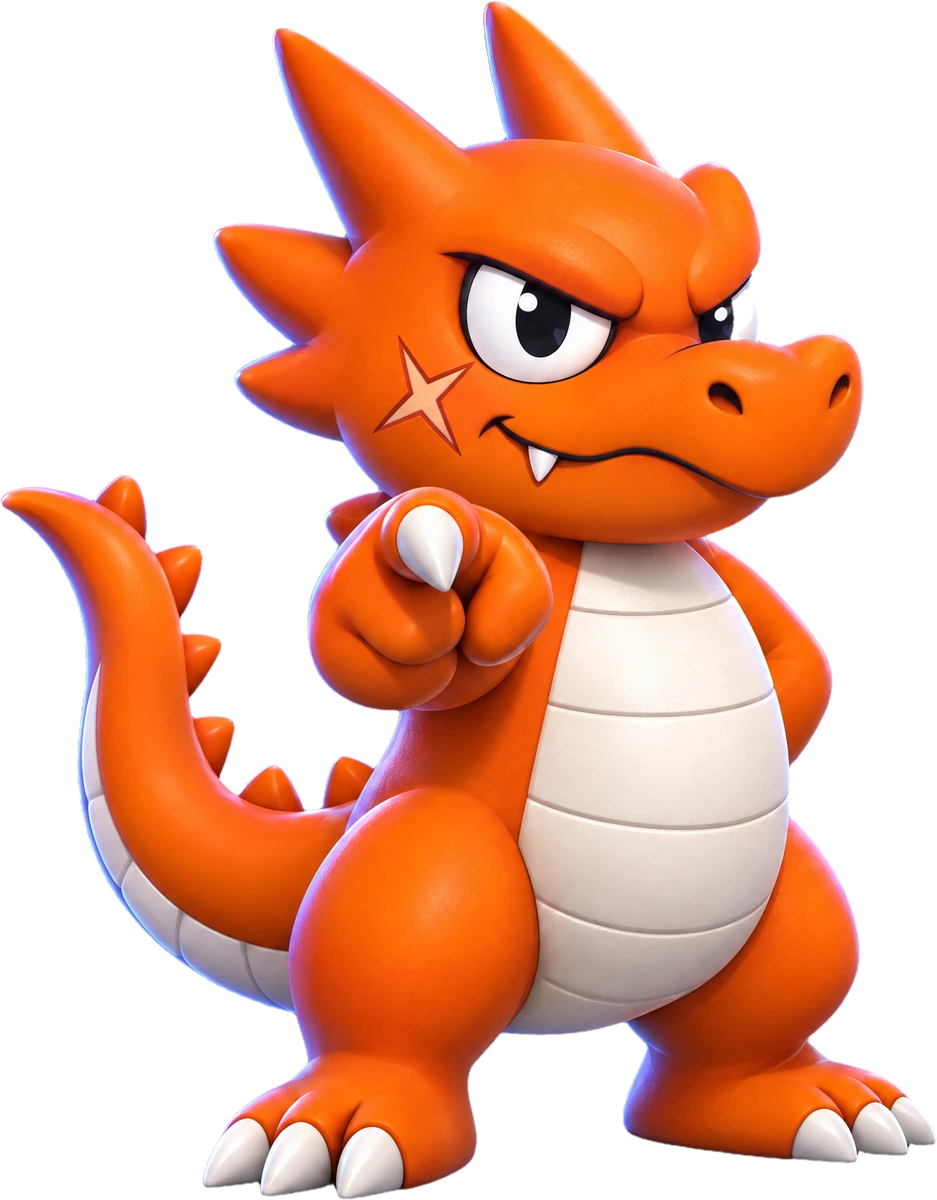
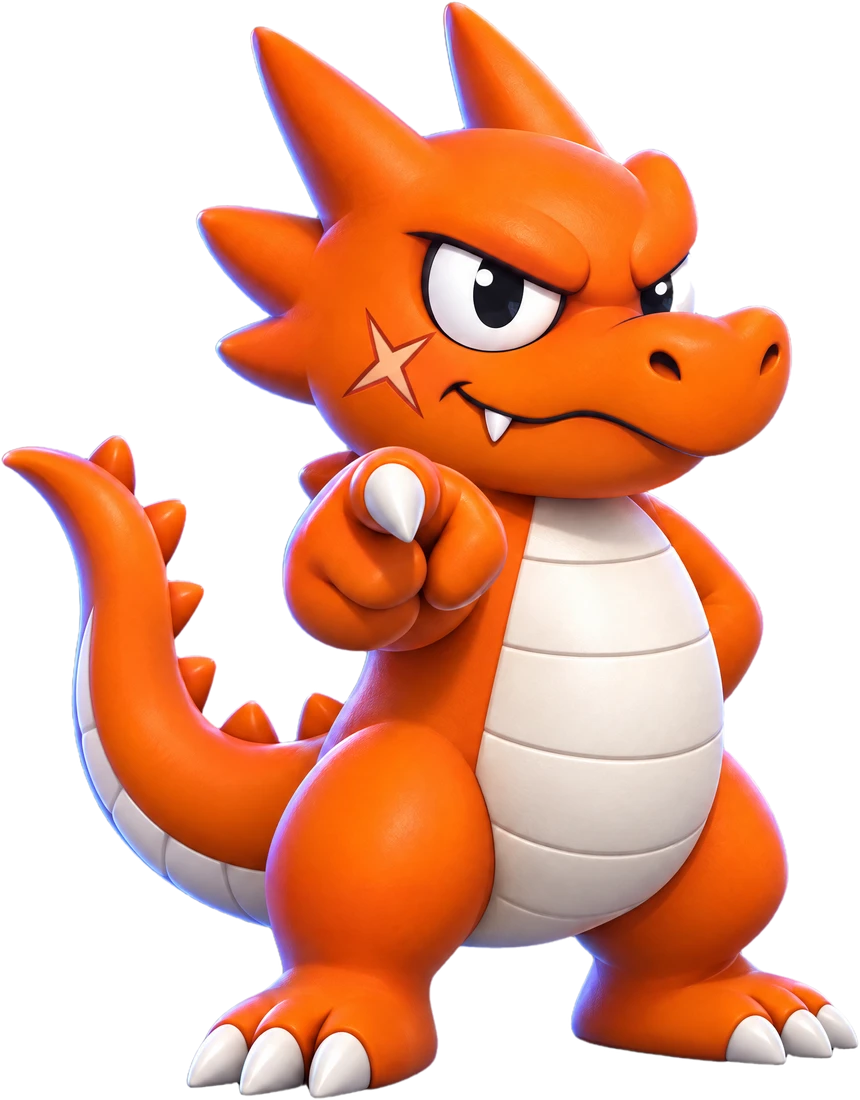
Troca o Draco 3D da seção Android (#24)
Claude-Session: https://claude.ai/code/session_012y8QeL6hqXnQuq4nwJyrhU

diff --git a/index.html b/index.html
@@ -984,7 +984,7 @@ document.querySelector('#root').innerHTML = `
       </div>
       <div class="android__stage">
         <div class="android__scene">
-          <img class="android__draco" src="${IMG}draco-3d.webp" alt="Draco, o mascote do ANIMAE, apontando para você" width="780" height="999" loading="lazy">
+          <img class="android__draco" src="${IMG}draco-3d.webp?v=2" alt="Draco, o mascote do ANIMAE, apontando para você" width="860" height="1100" loading="lazy">
           <div class="android__bubble">
             <img src="${IMG}balao.webp" alt="" width="416" height="255" loading="lazy">
             <p><strong>Ei, você aí!</strong><span>Feito de otaku pra otaku. Entra logo na lista e não fica de fora dessa. Osu!</span><small>— Draco</small></p>
